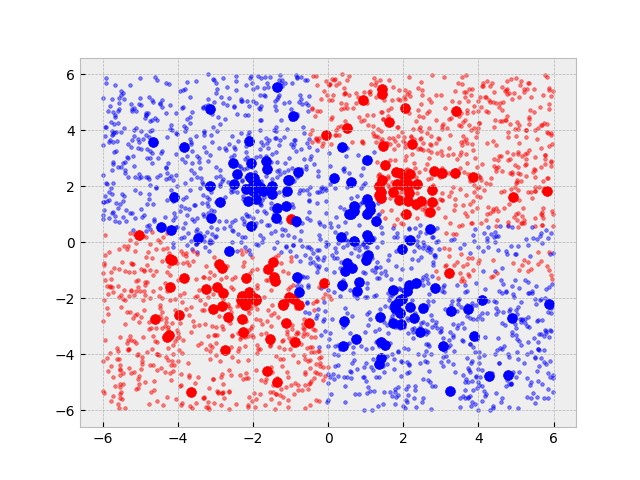
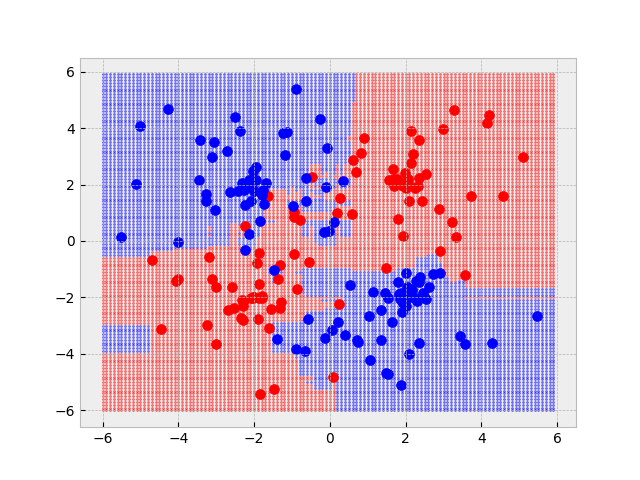
even points for RF

diff --git a/tests/test_random_forest_2.py b/tests/test_random_forest_2.py
@@ -58,13 +58,13 @@ farthest = 4
 power = 1.5
 num_points = 200
 
-dataset_points = semirandom_dataset(centers, classes, colors, farthest, power, num_points)
+dataset_points_dict = semirandom_dataset(centers, classes, colors, farthest, power, num_points)
 
 num_folds = 2
 num_trees = 100
 min_size_to_split = 2 
 
-training, testing = get_folds_list(dataset_points, num_folds)
+training, testing = get_folds_list(dataset_points_dict, num_folds)
 forest = RandomForestClassifier(n_estimators=num_trees)
 
 x_and_y = [(elem, key) for key, value in training.items() for elem in value]
@@ -72,13 +72,14 @@ x = [list(elem[0]) for elem in x_and_y]
 y = [elem[1] for elem in x_and_y]
 forest.fit(x, y)
 
-many_points = [[random.uniform(-6, 6), random.uniform(-6, 6)] for _ in range(2500)]
+many_points = [[x/10, y/10] for x in range(-60, 60) for y in range(-60, 60)]
+dataset_points = dataset_points_dict['x'] + dataset_points_dict['o']
 
 for point in many_points:
     prediction = forest.predict([point])[0]
-    plt.scatter(point[0], point[1], s=7, c=colors[prediction], alpha=0.5)
+    plt.scatter(point[0], point[1], s=2, c=colors[prediction], alpha=0.5)
 
-for point in dataset_points['x'] + dataset_points['o']:
+for point in dataset_points:
     prediction = forest.predict([point])[0]
     plt.scatter(point[0], point[1], s=50, c=colors[prediction])
 
